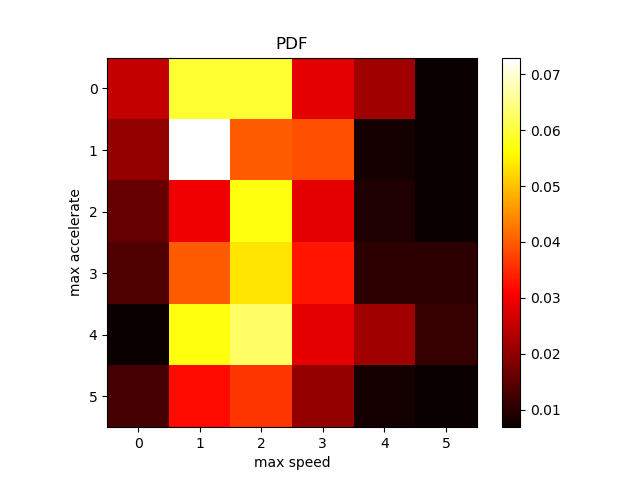
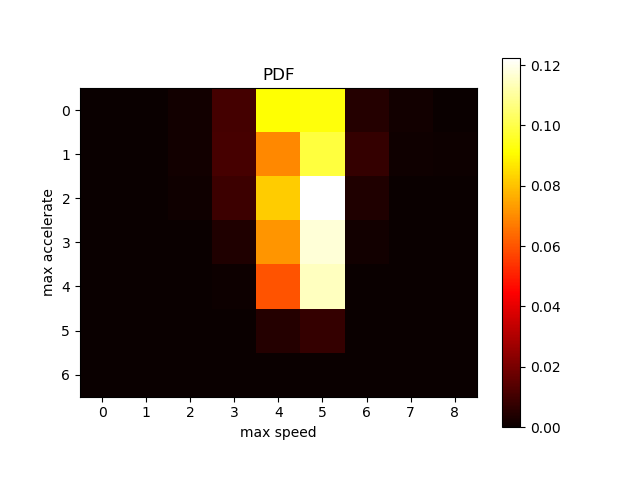
Time: 2019-09-22 17:08:37

diff --git a/4_2_1_randomlySample.py b/4_2_1_randomlySample.py
@@ -6,11 +6,12 @@
 @Github: https://github.com/isLouisHsu
 @E-mail: is.louishsu@foxmail.com
 @Date: 2019-09-20 11:07:51
-@LastEditTime: 2019-09-22 15:42:06
+@LastEditTime: 2019-09-22 17:03:24
 @Update: 
 '''
 import os
 import numpy as np
+from scipy import signal
 from matplotlib import mlab
 from matplotlib import pyplot as plt
 from sklearn.externals import joblib
@@ -18,6 +19,35 @@ from sklearn.neighbors import KernelDensity
 
 from params import n_components_default, n_clusters_default
 from params import deleteClassIndex, featLandmarks, totalTime, sampleTime
+
+def speedAndAcceleratePdf(seq, calFreq=True):
+    """
+    Params:
+        seq: {ndarray(n_sequence)}
+    """
+    seq = signal.medfilt(seq, (3,))
+    _speedSeq = seq / 3.6                                   # m/s
+    acc = np.r_[0, _speedSeq[1:] - _speedSeq[:-1]]          # m/s2
+
+    speedLandmark      = [-np.inf] + [10 * (i + 1) for i in range(6)] + [np.inf]
+    accelerateLandmark = [-np.inf] + [i - 4 for i in range(8)]        + [np.inf]
+
+    rows, cols = len(speedLandmark) - 1, len(accelerateLandmark) - 1
+    pdf = np.zeros((rows, cols))
+    for i in range(rows):
+        for j in range(cols):
+            s, e = speedLandmark[i: i + 2]
+            index1 = np.bitwise_and(seq > s, seq < e)
+            s, e = accelerateLandmark[j: j + 2]
+            index2 = np.bitwise_and(acc > s, acc < e)
+
+            index = np.bitwise_and(index1, index2)
+            pdf[i, j] = np.where(index)[0].shape[0]
+
+    if calFreq:
+        pdf = pdf / pdf.sum()
+
+    return pdf
 
 sequences = np.load('output/1_gpsSpeedSequences.npy')
 features  = np.load('output/1_gpsSpeedFeatures.npy')
@@ -61,27 +91,30 @@ for i in range(len(featLandmarks) + 1):
 
     # ---------------------------------------------------------------------------------
     ## 统计该速度区间，峰值速度与平均加速度（包含正负）的联合概率分布
-    featIdx0 = 0; featIdx1 = 7
-    n0, bins0 = np.histogram(subFeature[:, featIdx0], bins=6)
-    n1, bins1 = np.histogram(subFeature[:, featIdx1], bins=6)
-    gap0 = bins0[1] - bins0[0]; gap1 = bins1[1] - bins1[0]
+    # featIdx0 = 0; featIdx1 = 7
+    # n0, bins0 = np.histogram(subFeature[:, featIdx0], bins=6)
+    # n1, bins1 = np.histogram(subFeature[:, featIdx1], bins=6)
+    # gap0 = bins0[1] - bins0[0]; gap1 = bins1[1] - bins1[0]
 
-    pdf = np.zeros((n0.shape[0], n1.shape[0]))
-    for j in range(n0.shape[0]):
-        for k in range(n1.shape[0]):
-            ### 峰值速度
-            _idx1 = subFeature[:, featIdx0] > bins0[j]
-            _idx2 = subFeature[:, featIdx0] < bins0[j + 1]
-            idx1  = np.bitwise_and(_idx1, _idx2)
-            ### 平均加速度
-            _idx1 = subFeature[:, featIdx1] > bins1[k]
-            _idx2 = subFeature[:, featIdx1] < bins1[k + 1]
-            idx2  = np.bitwise_and(_idx1, _idx2)
-            ### 统计数目
-            idx   = np.bitwise_and(idx1, idx2)
-            pdf[j, k] = idx.sum()
+    # pdf = np.zeros((n0.shape[0], n1.shape[0]))
+    # for j in range(n0.shape[0]):
+    #     for k in range(n1.shape[0]):
+    #         ### 峰值速度
+    #         _idx1 = subFeature[:, featIdx0] > bins0[j]
+    #         _idx2 = subFeature[:, featIdx0] < bins0[j + 1]
+    #         idx1  = np.bitwise_and(_idx1, _idx2)
+    #         ### 平均加速度
+    #         _idx1 = subFeature[:, featIdx1] > bins1[k]
+    #         _idx2 = subFeature[:, featIdx1] < bins1[k + 1]
+    #         idx2  = np.bitwise_and(_idx1, _idx2)
+    #         ### 统计数目
+    #         idx   = np.bitwise_and(idx1, idx2)
+    #         pdf[j, k] = idx.sum()
+
+    pdf = speedAndAcceleratePdf(np.concatenate(subSequence))
     pdf = pdf / pdf.sum()
-    print(pdf)
+
+    # print(pdf)
     plt.figure()
     plt.imshow(pdf, cmap=plt.cm.hot)
     plt.title("PDF")
@@ -160,15 +193,18 @@ for i in range(len(featLandmarks) + 1):
     
         cnt = np.zeros_like(pdf, dtype=np.int)
         for  k in range(Nk):
-            _f = subChosenFeatures[j, k]
-            a, b = _f[featIdx0], _f[featIdx1]
-            ia = int((a - bins0[0]) // gap0)
-            ib = int((b - bins1[0]) // gap1)
-            ia = ia - 1 if a >= bins0[-1] else ia
-            ib = ib - 1 if b >= bins1[-1] else ib
-            cnt[ia, ib] += 1
-        
-        k = ((cnt - Nk * pdf)**2 / (Nk * pdf + np.finfo(np.float).eps))
+            _seq = subChosenSequences[j, k]
+            cnt += speedAndAcceleratePdf(_seq, False).astype(np.int)
+
+            # a, b = _f[featIdx0], _f[featIdx1]
+            # ia = int((a - bins0[0]) // gap0)
+            # ib = int((b - bins1[0]) // gap1)
+            # ia = ia - 1 if a >= bins0[-1] else ia
+            # ib = ib - 1 if b >= bins1[-1] else ib
+            # cnt[ia, ib] += 1
+        # k = ((cnt - Nk * pdf)**2 / (Nk * pdf + np.finfo(np.float).eps))
+
+        k = (cnt - cnt.sum() * pdf)**2 / (cnt.sum() * pdf + np.finfo(np.float).eps)
         K += [k.sum()]
     K = np.array(K)
 

diff --git a/5_1_evaluateCurve.py b/5_1_evaluateCurve.py
@@ -6,7 +6,7 @@
 @Github: https://github.com/isLouisHsu
 @E-mail: is.louishsu@foxmail.com
 @Date: 2019-09-22 14:29:48
-@LastEditTime: 2019-09-22 16:44:42
+@LastEditTime: 2019-09-22 17:08:02
 @Update: 
 '''
 import os
@@ -96,7 +96,7 @@ def evalSpeedAndAccelerate(seq):
     return pdf
 
 # ------------------------------------------------------------------------
-k = 17
+k = 5
 speedSeq = np.load("output/4_2_2_combineSequences_%d.npy" % k)
 speedSeq = np.concatenate(speedSeq)
 calFeature(speedSeq)
@@ -156,7 +156,6 @@ ax.set_ylabel('speed(km/h)')
 ax.set_zlabel('joint probability distribution')
 fig.colorbar(surf, shrink=0.5, aspect=5)
 plt.savefig("images/5_1_output_pdf_3d.png")
-
 
 fig = plt.figure()
 # plt.title("联合分布差异")
